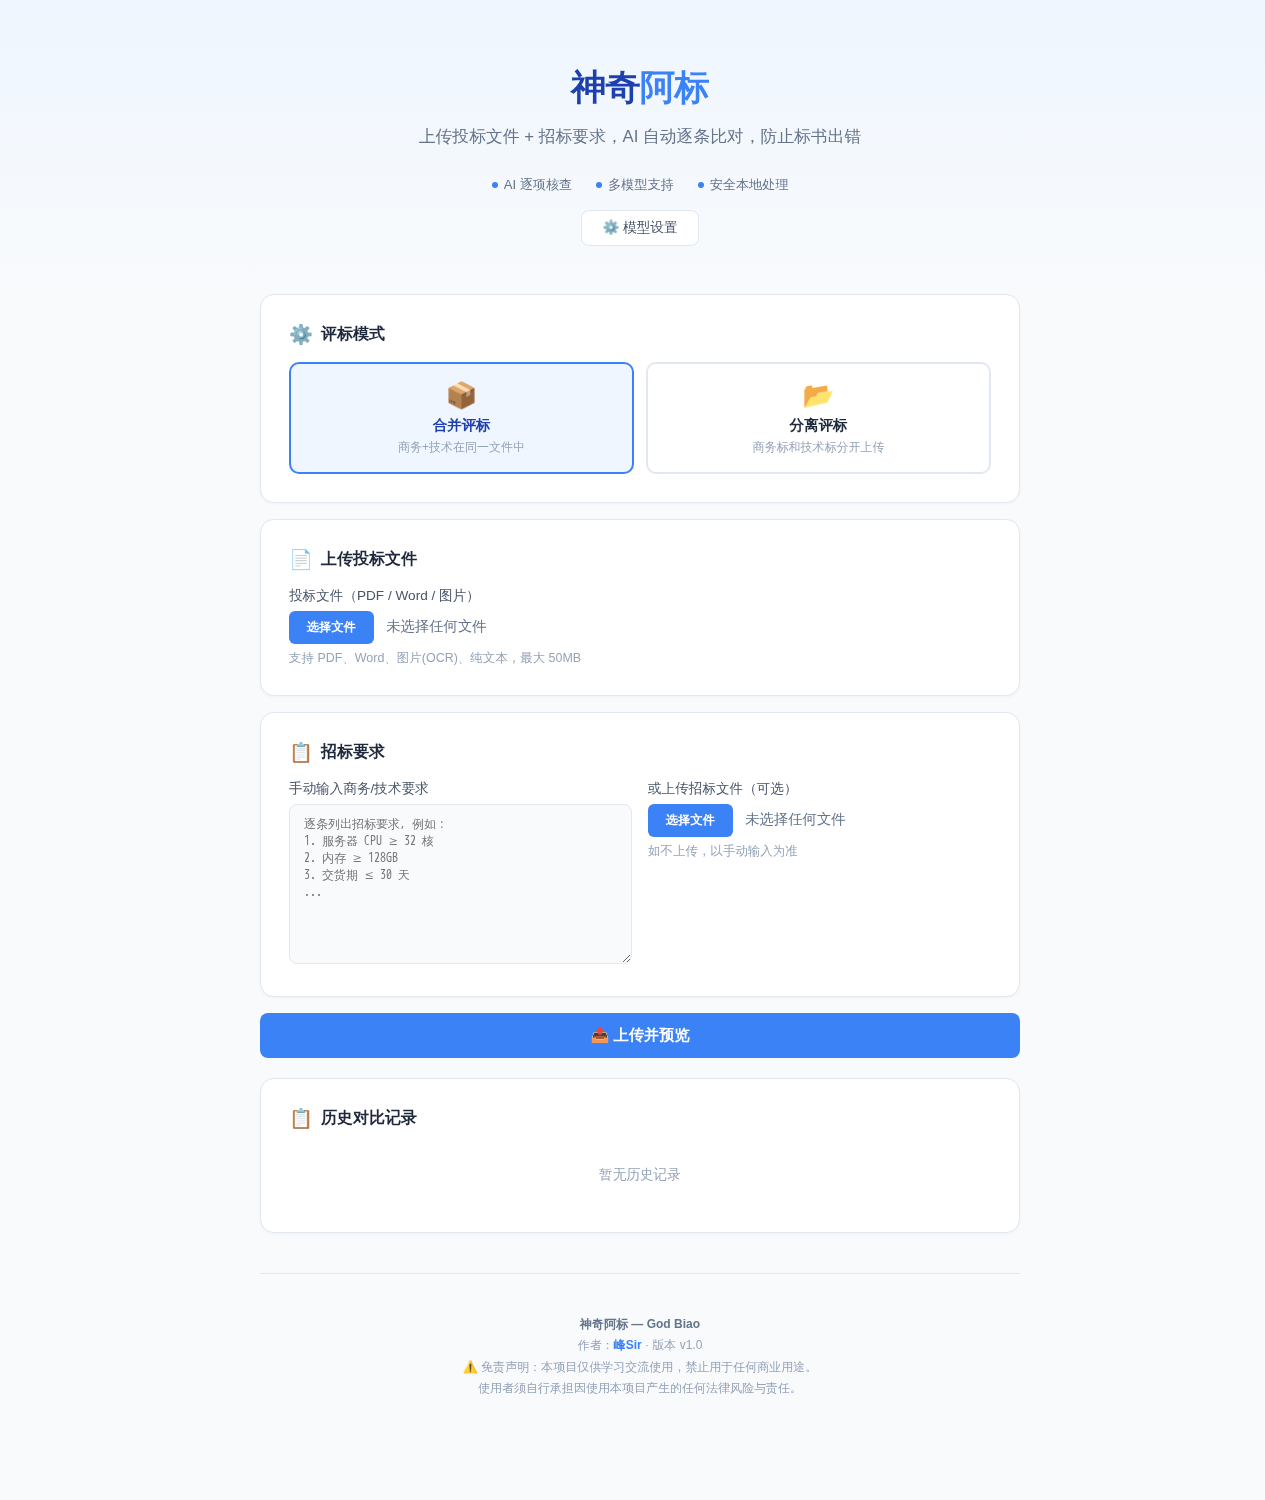
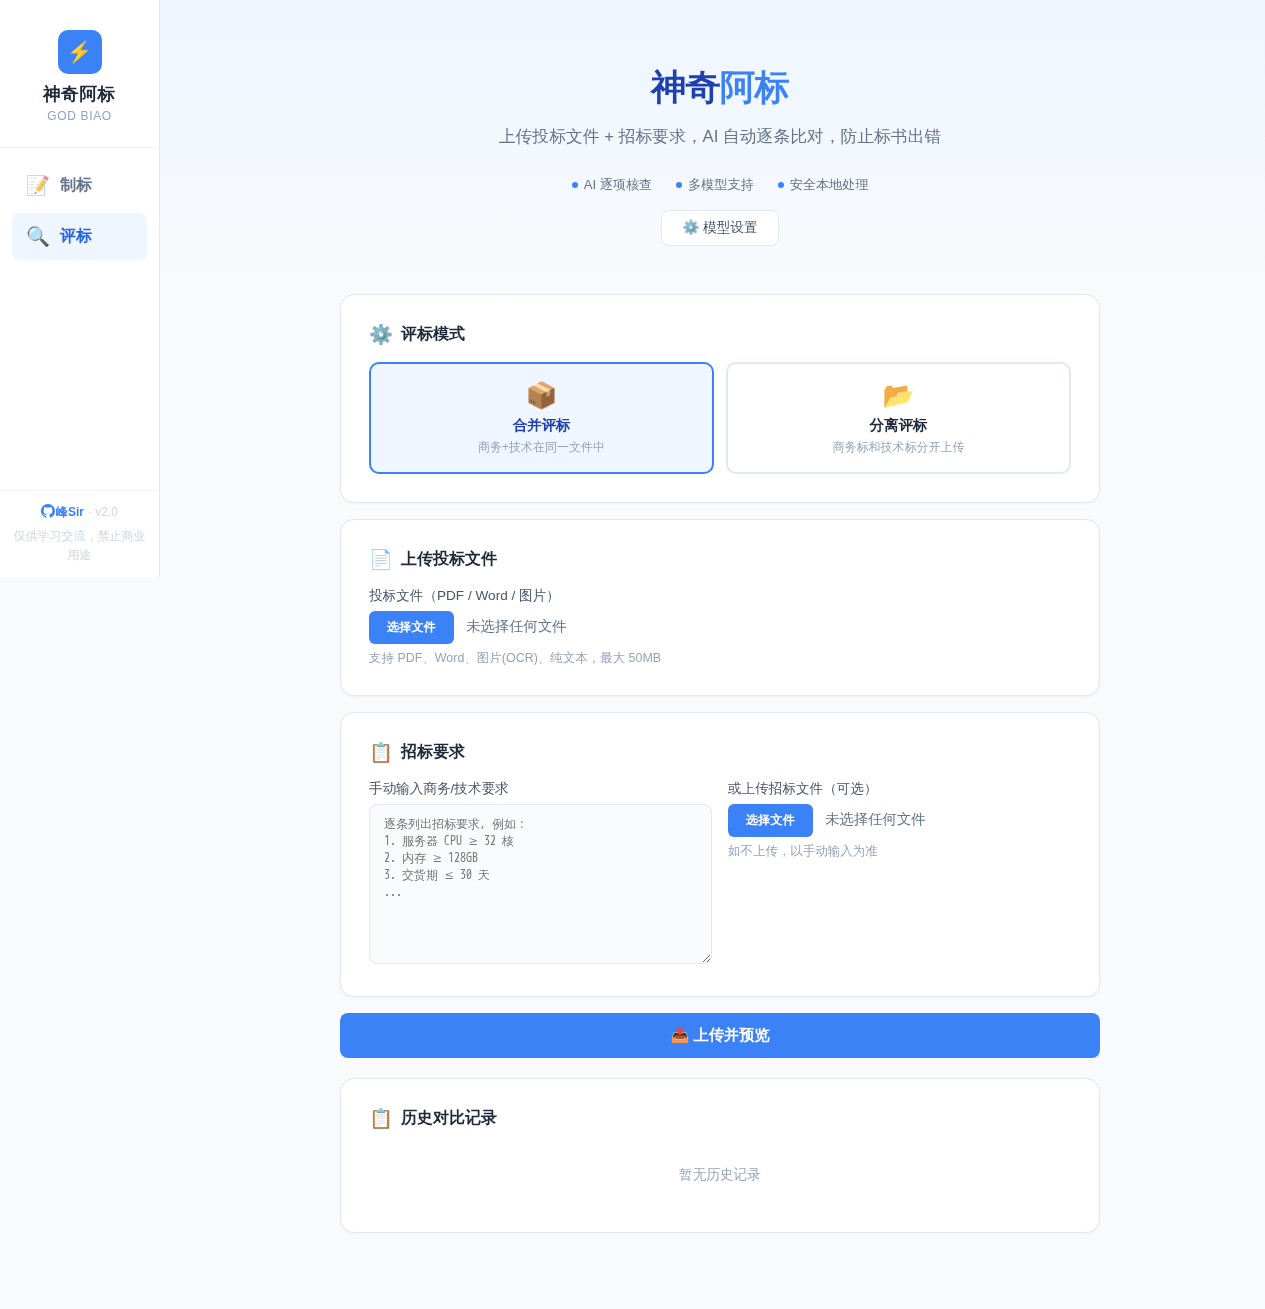
docs: add screenshots section with v2.0 bidding page

diff --git a/README.md b/README.md
@@ -119,6 +119,40 @@ bid_categories (类别)
 
 ---
 
+## 🎨 截图
+
+### 评标首页 — 上传投标文件 + 招标要求
+
+<p align="center">
+  <img src="screenshots/homepage.png" width="800" alt="评标首页">
+</p>
+
+### 制标工具 — 类别→产品线→参数管理 + 一键导出 Word
+
+<p align="center">
+  <img src="screenshots/bidding.png" width="800" alt="制标工具">
+</p>
+
+### 模型设置 — 支持 10+ 大模型
+
+<p align="center">
+  <img src="screenshots/model-settings.png" width="800" alt="模型设置">
+</p>
+
+### 比对结果 — 逐项核查 + 综合评分
+
+<p align="center">
+  <img src="screenshots/result-overview.jpg" width="800" alt="结果概览">
+</p>
+
+### 详细分析 — 满足度 + 建议 + 关键信息提取
+
+<p align="center">
+  <img src="screenshots/result-detail.jpg" width="800" alt="详细分析">
+</p>
+
+---
+
 ## ☕ 赞赏
 
 如果这个项目对你有帮助，欢迎请作者喝杯咖啡~